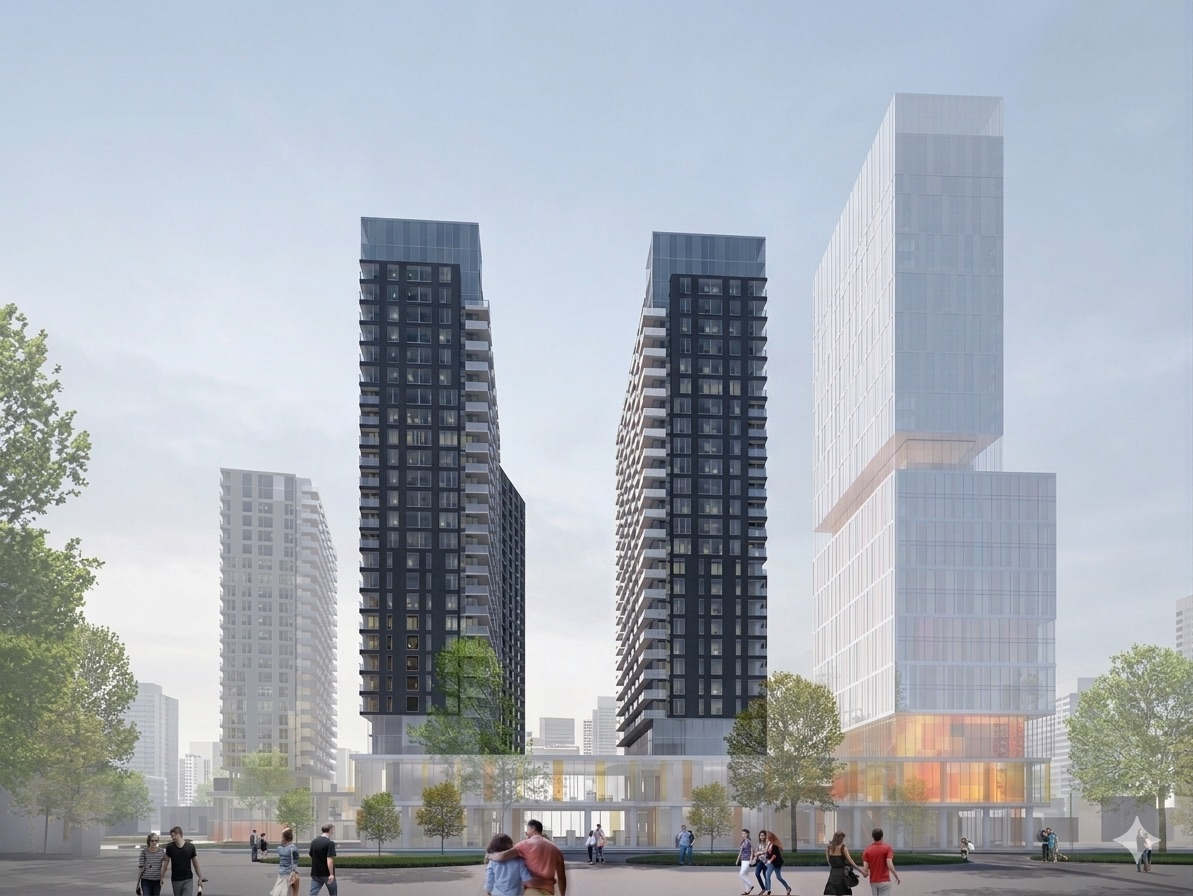
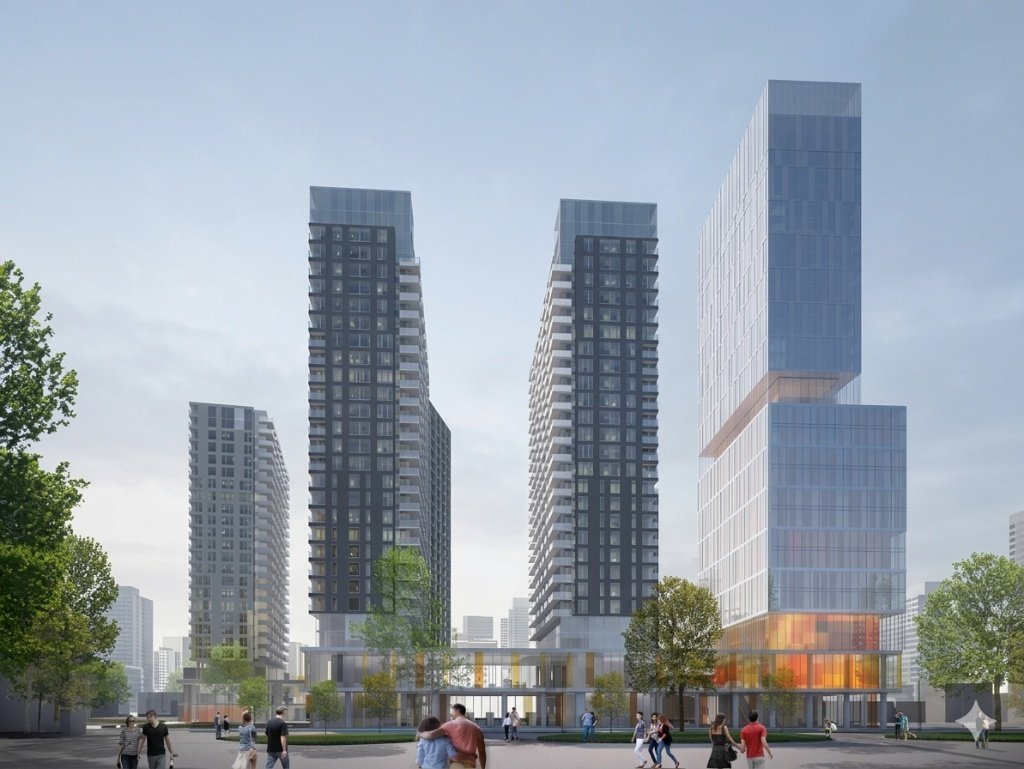
Hero pleine largeur (déborde aux bords de la carte) + nouveau render

diff --git a/index.html b/index.html
@@ -238,7 +238,7 @@ html, body { background:var(--cream); font-family:Lato,sans-serif; color:var(--d
 .hero-photo.on { opacity:1; transform:translateY(0); }
 .hero-photo img { width:100%; height:100%; object-fit:cover; display:block; }
 
-.welcome { position:relative; overflow:hidden; text-align:center; padding:40px 22px 34px; border-radius:18px; margin-bottom:18px; color:#fff; background:linear-gradient(180deg, rgba(14,22,36,0.45), rgba(14,22,36,0.72)), url('building.jpg') center 30%/cover; box-shadow:0 10px 30px var(--shadow); opacity:0; transform:translateY(20px); transition:opacity 0.9s ease,transform 0.9s ease; transition-delay:0.2s; }
+.welcome { position:relative; overflow:hidden; text-align:center; padding:56px 28px 42px; margin:-52px -48px 20px; border-radius:20px 20px 0 0; color:#fff; background:linear-gradient(180deg, rgba(14,22,36,0.42), rgba(14,22,36,0.74)), url('building.jpg') center 32%/cover; opacity:0; transform:translateY(20px); transition:opacity 0.9s ease,transform 0.9s ease; transition-delay:0.2s; }
 .welcome.on { opacity:1; transform:translateY(0); }
 .kicker { display:inline-block; font-size:0.7rem; font-weight:700; letter-spacing:0.07em; text-transform:uppercase; color:#fff; padding:5px 13px; border:1px solid rgba(255,255,255,0.5); border-radius:999px; margin-bottom:14px; background:rgba(232,96,28,0.85); -webkit-backdrop-filter:blur(4px); backdrop-filter:blur(4px); }
 .welcome h2 { font-family:"Playfair Display",serif; font-size:2.1rem; font-weight:600; color:#fff; margin-bottom:10px; text-shadow:0 2px 14px rgba(0,0,0,0.55); }
@@ -335,6 +335,7 @@ html, body { background:var(--cream); font-family:Lato,sans-serif; color:var(--d
   .tabs { gap:5px; }
   .tab { padding:9px 2px; }
   .tab .tab-lb { font-size:0.52rem; }
+  .welcome { margin:-30px -16px 16px; padding:42px 18px 32px; border-radius:18px 18px 0 0; }
   .map3d-stage { gap:76px; height:328px; }
   .tower { width:66px; }
   .tower::after { width:18px; }
@@ -399,7 +400,7 @@ html, body { background:var(--cream); font-family:Lato,sans-serif; color:var(--d
 <div class="backdrop" id="bkdp"><div class="modal" id="modal"></div></div>
 
 <script>
[2 lines of base64/hex data omitted]
 
 function b64ToBuf(b64) {
   const bin = atob(b64);
